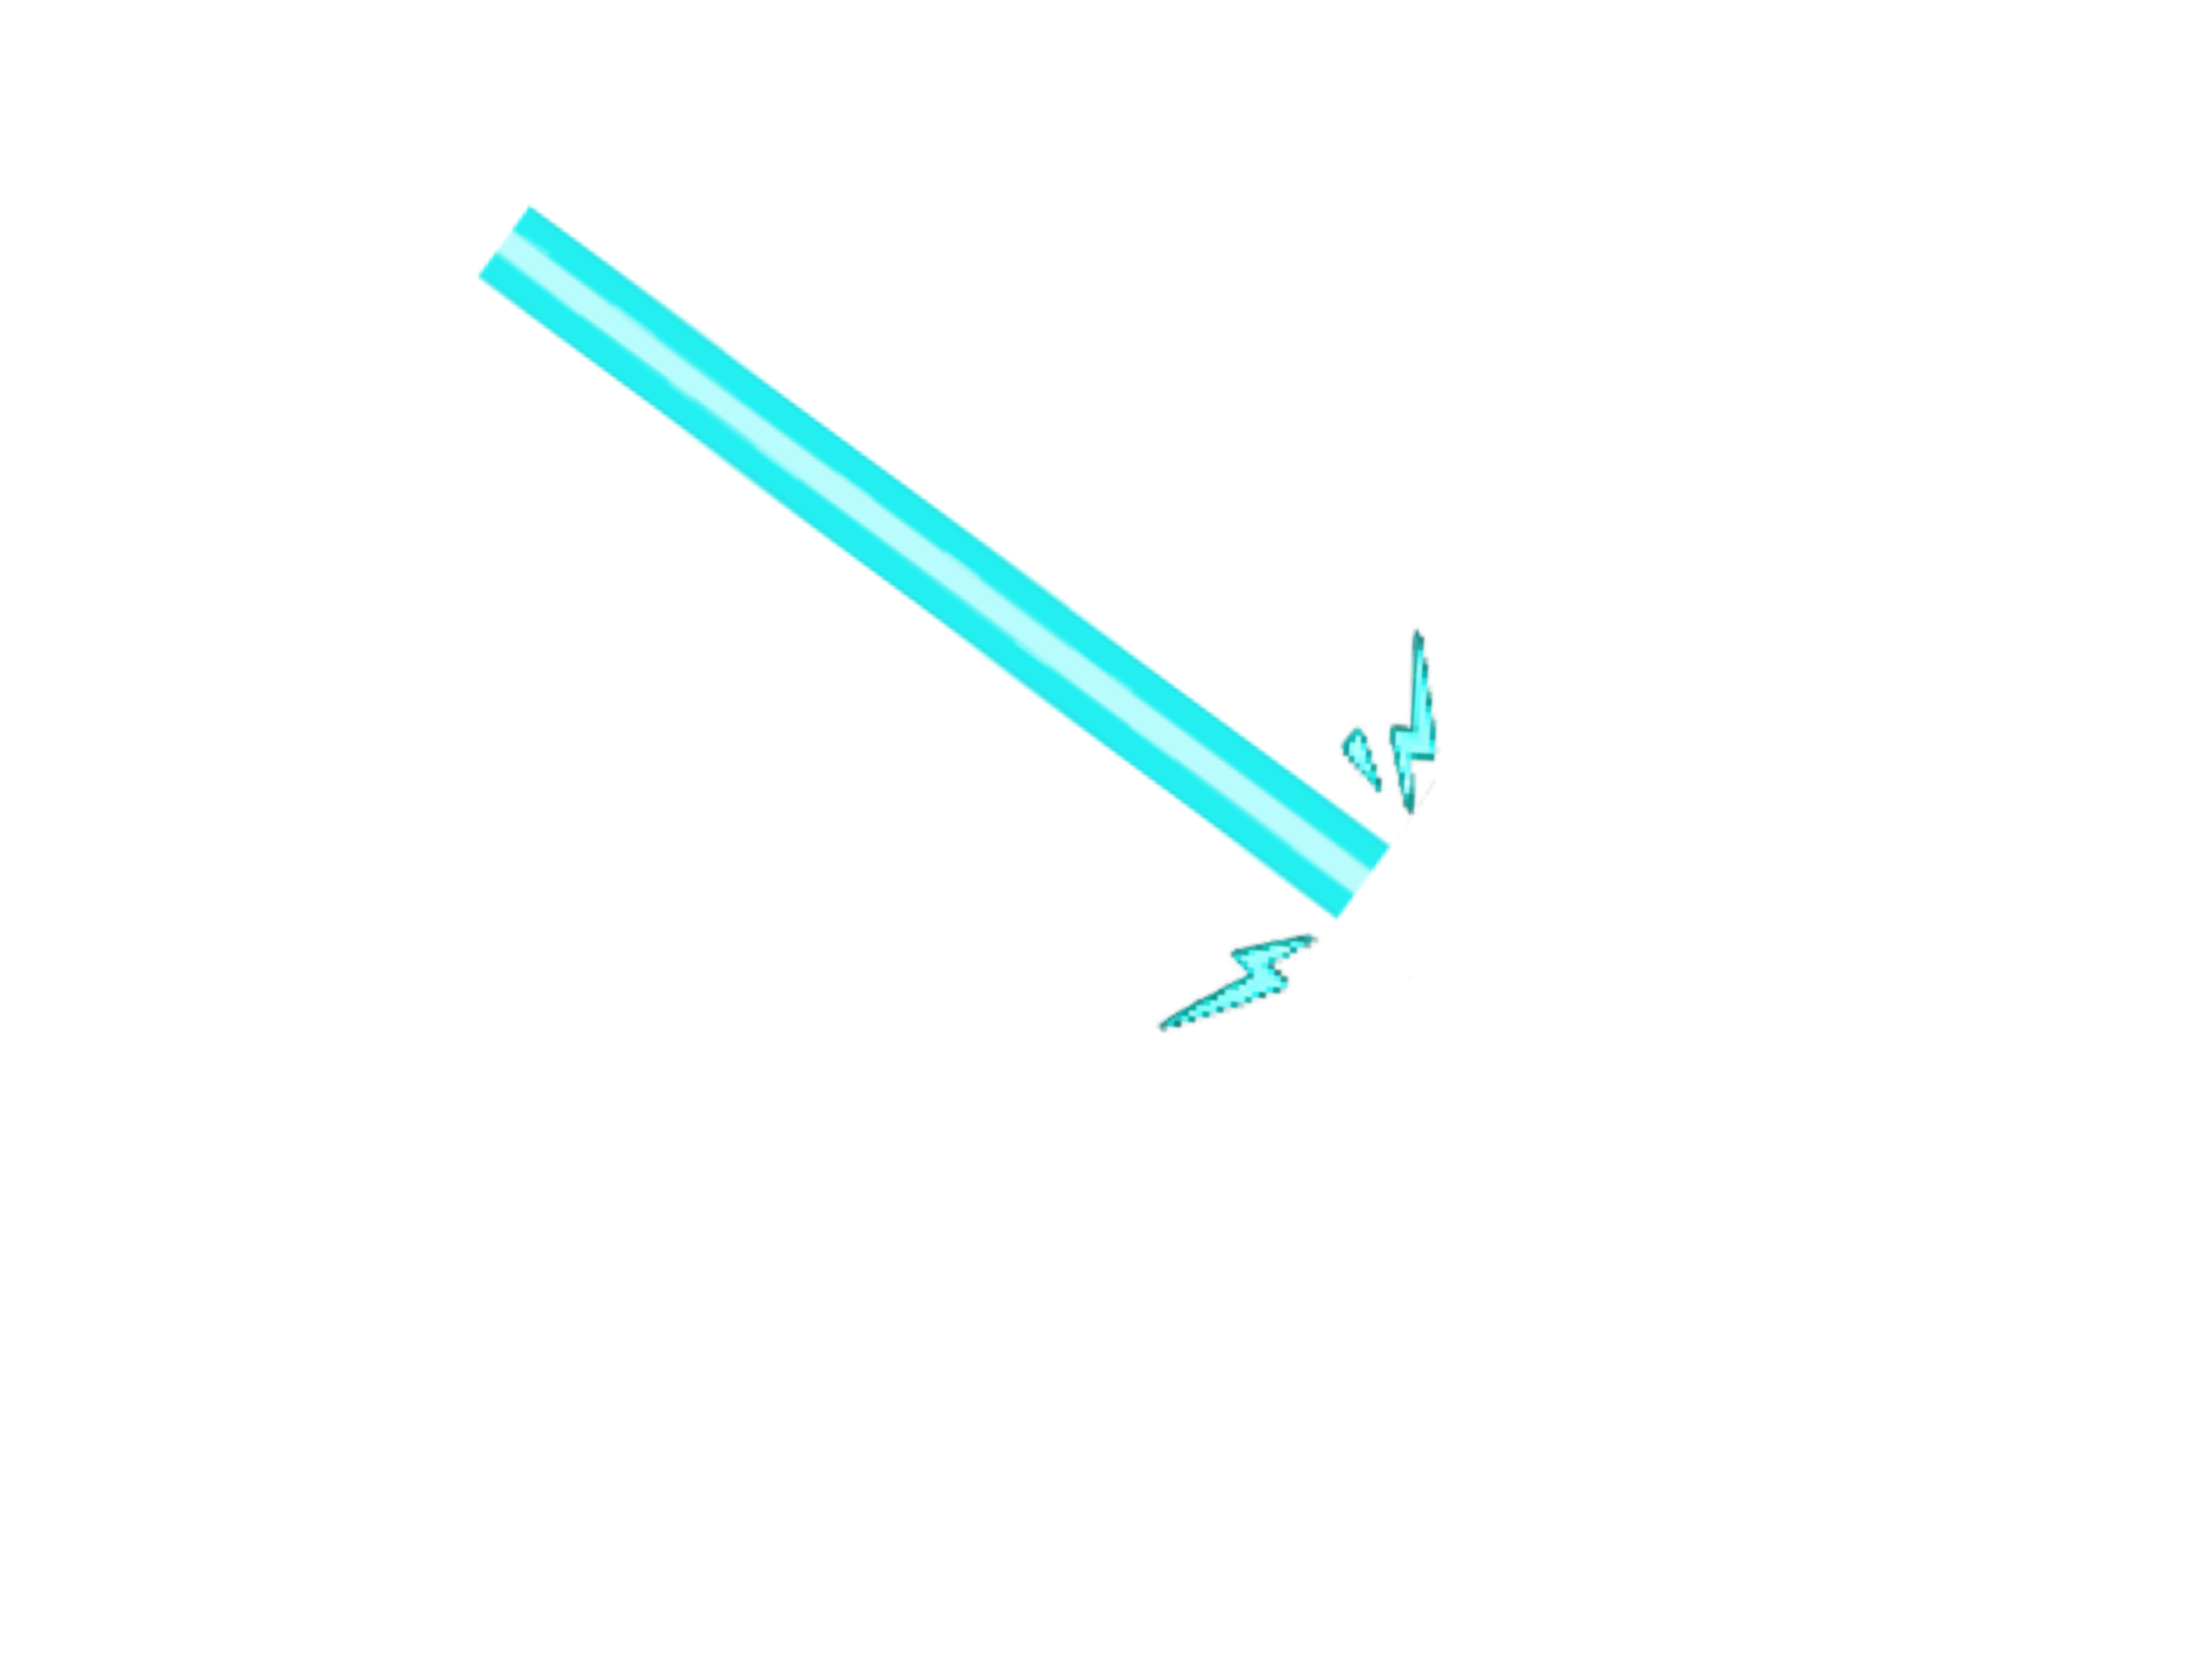
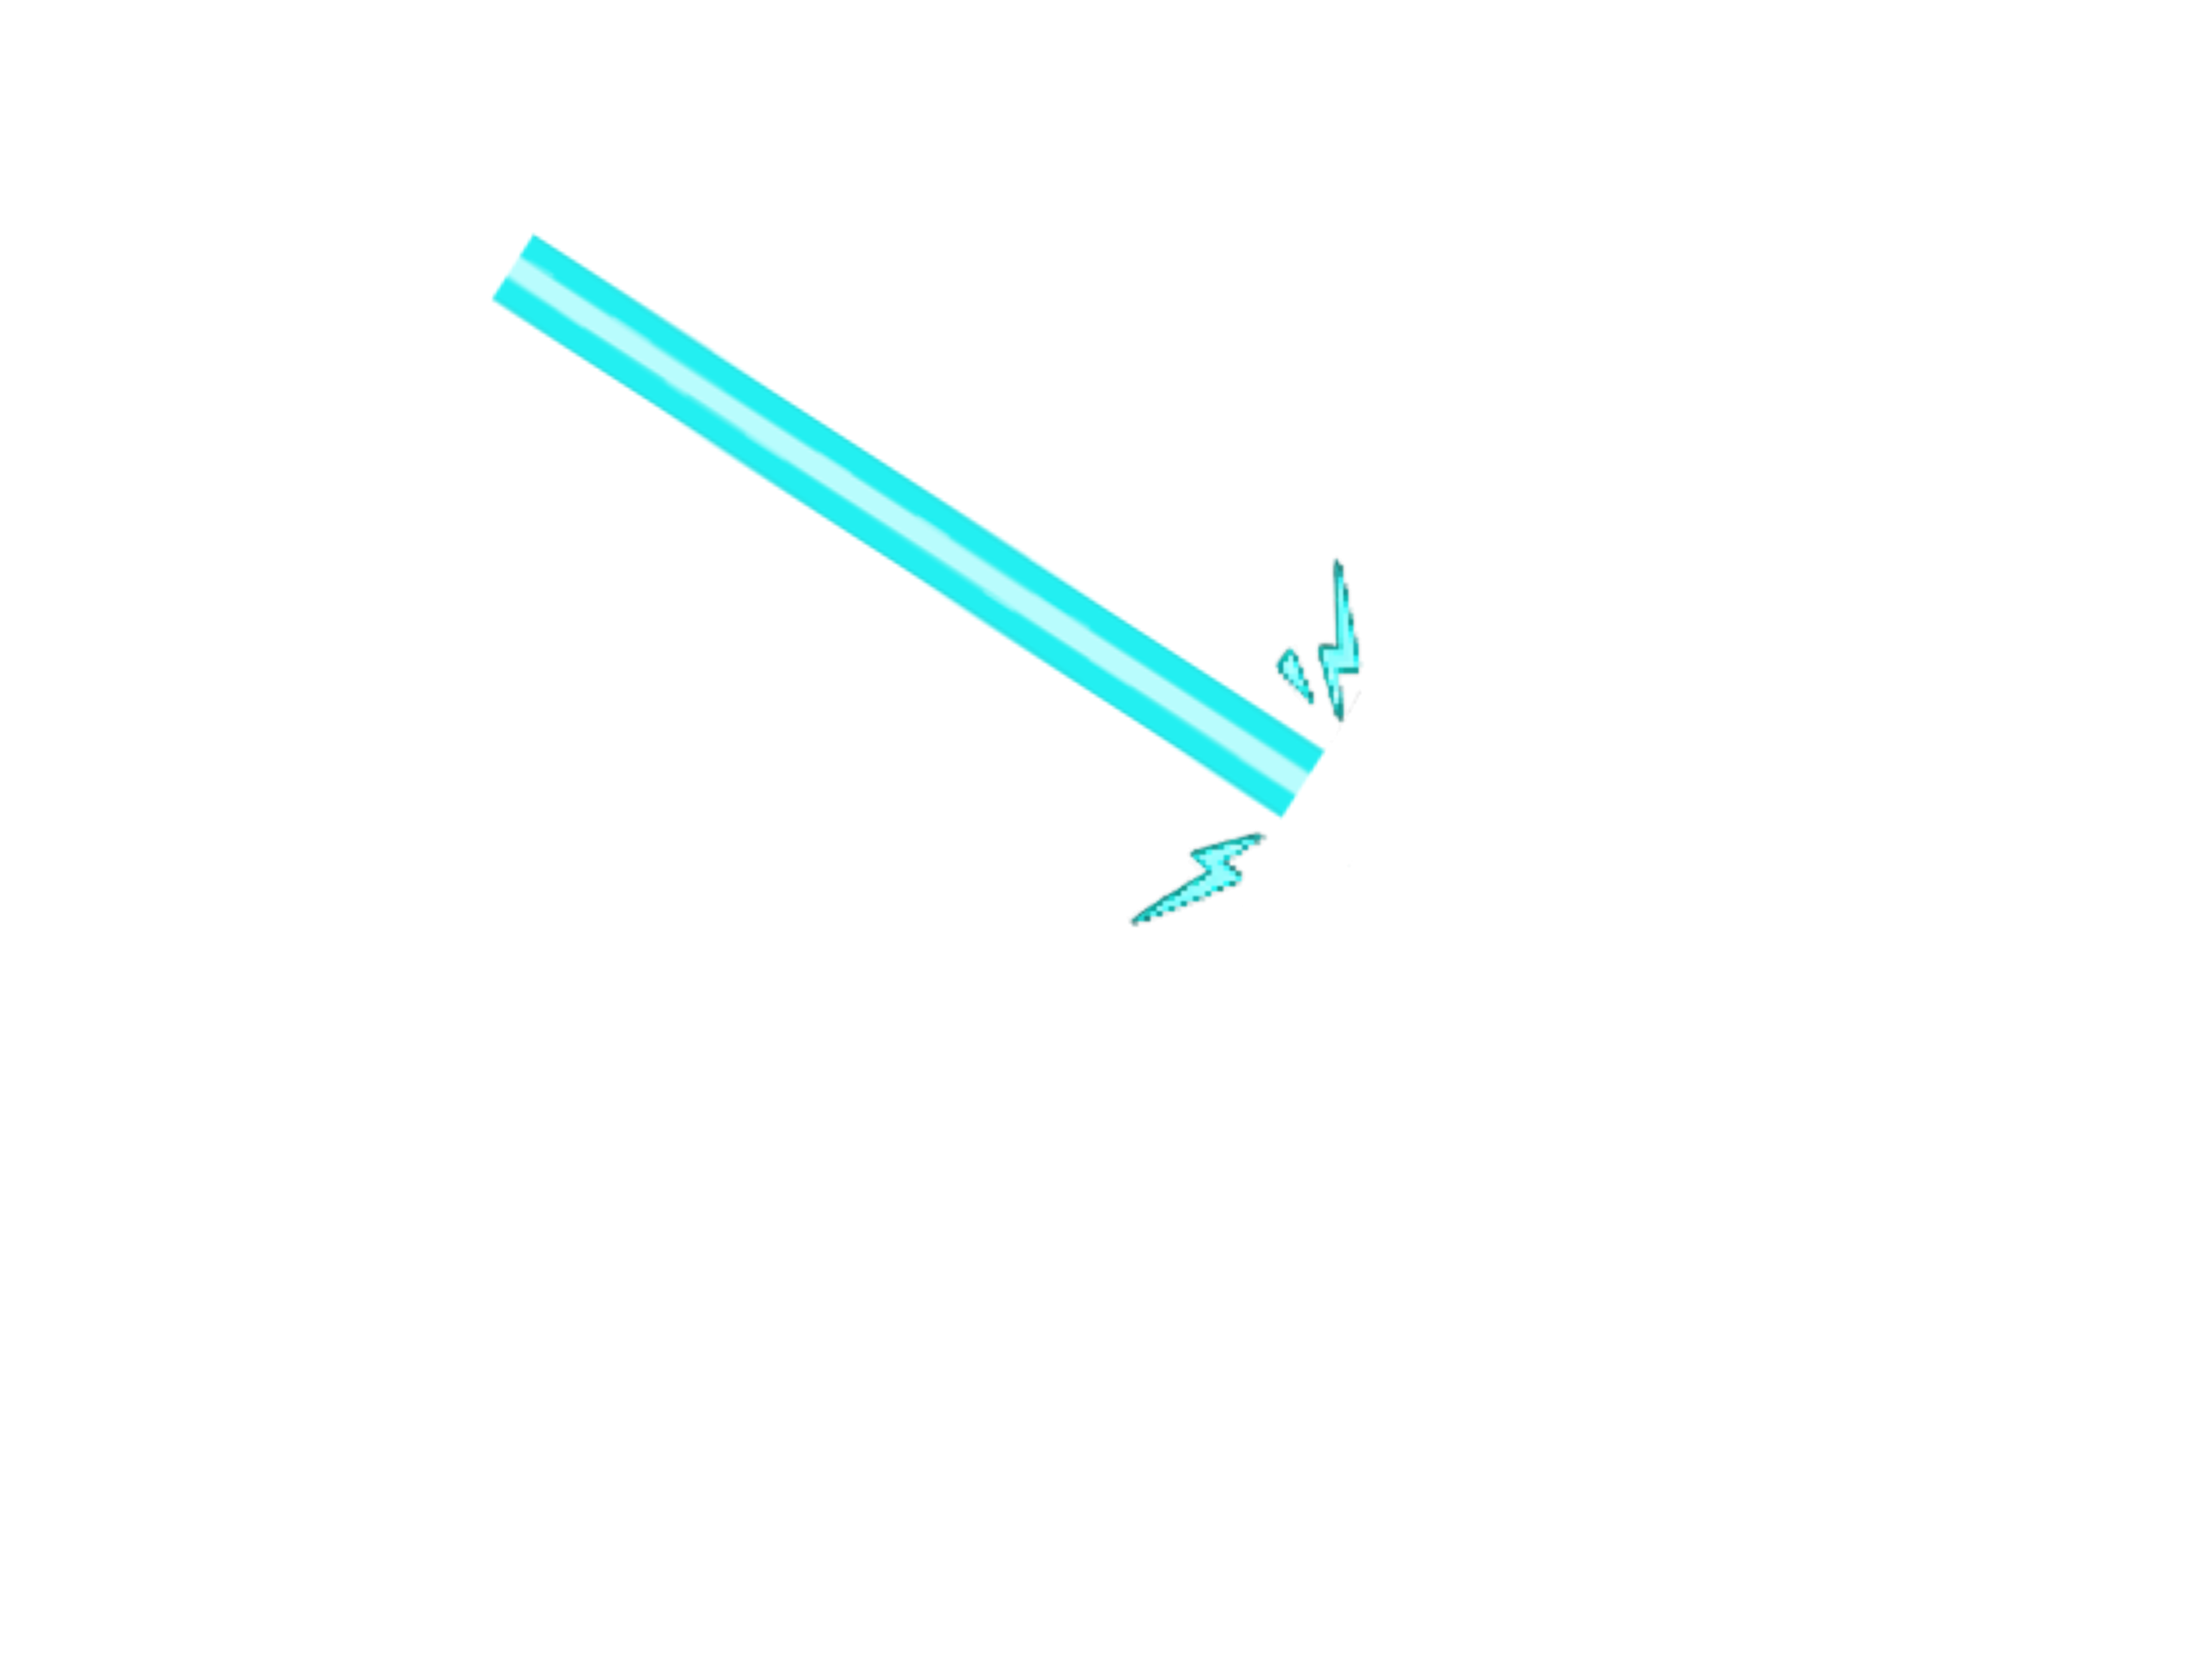
fix(hero): re-place gun and laser from Figma with a fitted transform; fix stale desktop art
The gun-only/gun-beam composites were placed with two different
hand-estimated similarity transforms, so the gun sat at the wrong
rotation in the shared 4096x3119 frame and the beam did not share its
placement. The desktop hero looked right only because the Next dev
image cache kept serving a stale w=1920 variant of the original
chroma-keyed gun.png (mobile hit fresh widths, hence the desktop-only
jagged, differently rotated gun).

Re-derive placement numerically: fit flip/rotation/scale/translation of
the Figma Group 648 raster (SVG export, true alpha) onto the original
hero frame by alpha-mask overlap, then fit the Group 660 laser with the
same mirror and angle and its own scale (the hero art's beam is ~1.6x
Group 660 at the gun's scale). Both assets are regenerated from that,
so the untouched desktop/mobile CSS lines up again and the beam now sits
on the muzzle. Recompute the fire-sweep clip-path polygons from the new
beam's measured axis.

Changed region(s): [[0.2188, 0.1244, 0.6562, 0.5598], [0.5312, 0.5598, 0.5938, 0.622]]

diff --git a/apps/web/app/globals.css b/apps/web/app/globals.css
@@ -214,13 +214,13 @@ body {
    the same path, so the bolt leaves through the tip like a projectile
    rather than retracting back into the gun. The overlay holds only beam +
    sparks, so nothing else can leak. Vertices are in the artwork's own
-   percentage box (beam runs from tip (24.2%,12.5%) to muzzle (59.8%,50.3%)
-   of the 4096x3119 frame), so the same keyframes work on desktop (rotated
+   percentage box (beam runs from tip (23.5%,16.0%) to muzzle (59.3%,46.8%)
+   of the 4096x3119 frame, measured from gun-beam.png's alpha), so the same keyframes work on desktop (rotated
    wrapper) and mobile at any width without per-layout numbers. Linear
    timing so both sweeps travel at a constant speed. */
 .gun-fire-beam {
   opacity: 0;
-  clip-path: polygon(114.8% -15%, 22.7% 134.6%, 22.7% 134.6%, 114.8% -15%);
+  clip-path: polygon(28.2% 135%, 108.4% -26%, 108.4% -26%, 28.2% 135%);
 }
 
 .gun-fire-beam.is-firing {
@@ -230,17 +230,17 @@ body {
 @keyframes gun-fire-reveal {
   0% {
     opacity: 1;
-    clip-path: polygon(114.8% -15%, 22.7% 134.6%, 22.7% 134.6%, 114.8% -15%);
+    clip-path: polygon(28.2% 135%, 108.4% -26%, 108.4% -26%, 28.2% 135%);
   }
   18%,
   55% {
     opacity: 1;
-    clip-path: polygon(64.9% -68%, -27.2% 81.7%, 22.7% 134.6%, 114.8% -15%);
+    clip-path: polygon(-22% 91.9%, 58.2% -69.1%, 108.4% -26%, 28.2% 135%);
   }
   80%,
   100% {
     opacity: 1;
-    clip-path: polygon(64.9% -68%, -27.2% 81.7%, -27.2% 81.7%, 64.9% -68%);
+    clip-path: polygon(-22% 91.9%, 58.2% -69.1%, 58.2% -69.1%, -22% 91.9%);
   }
 }
 
